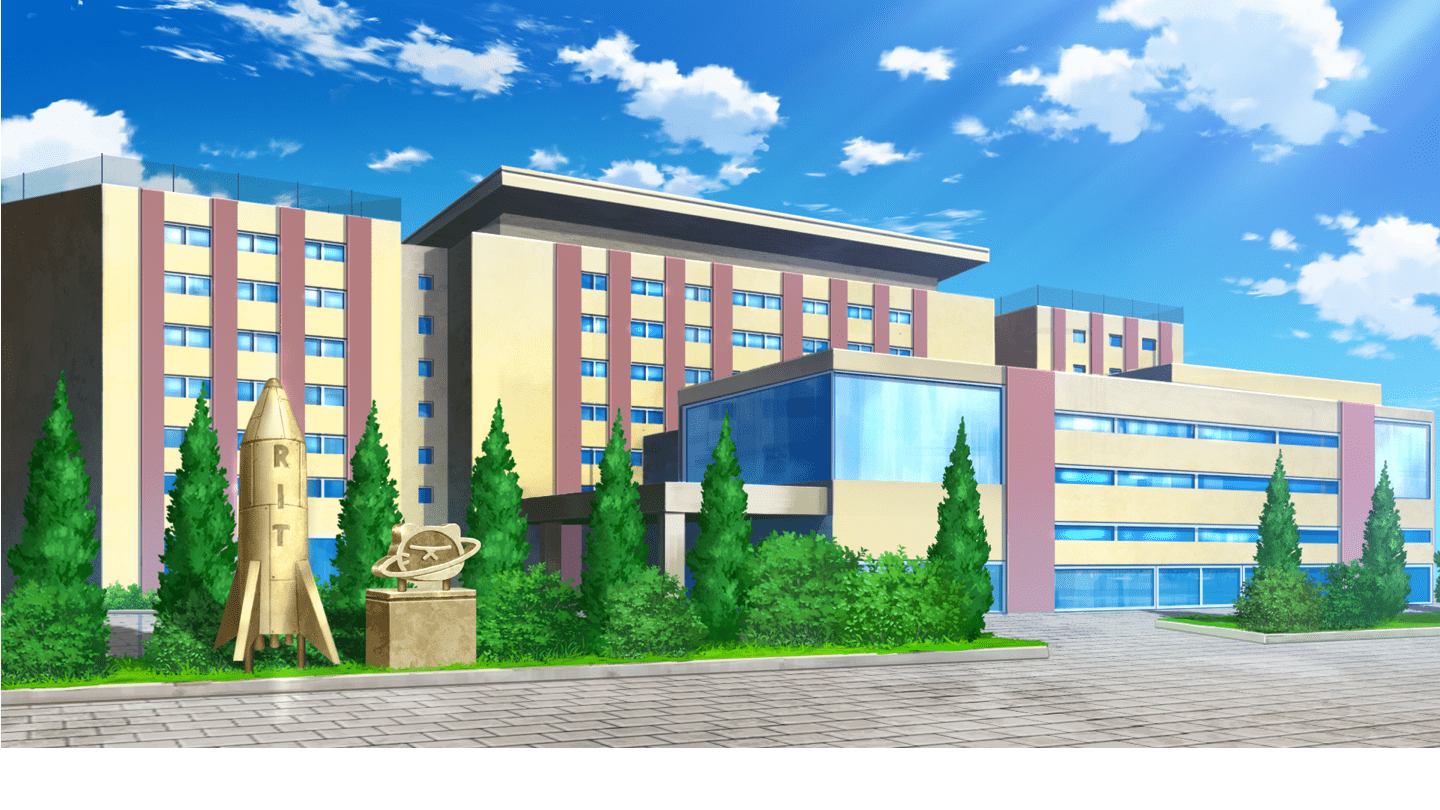
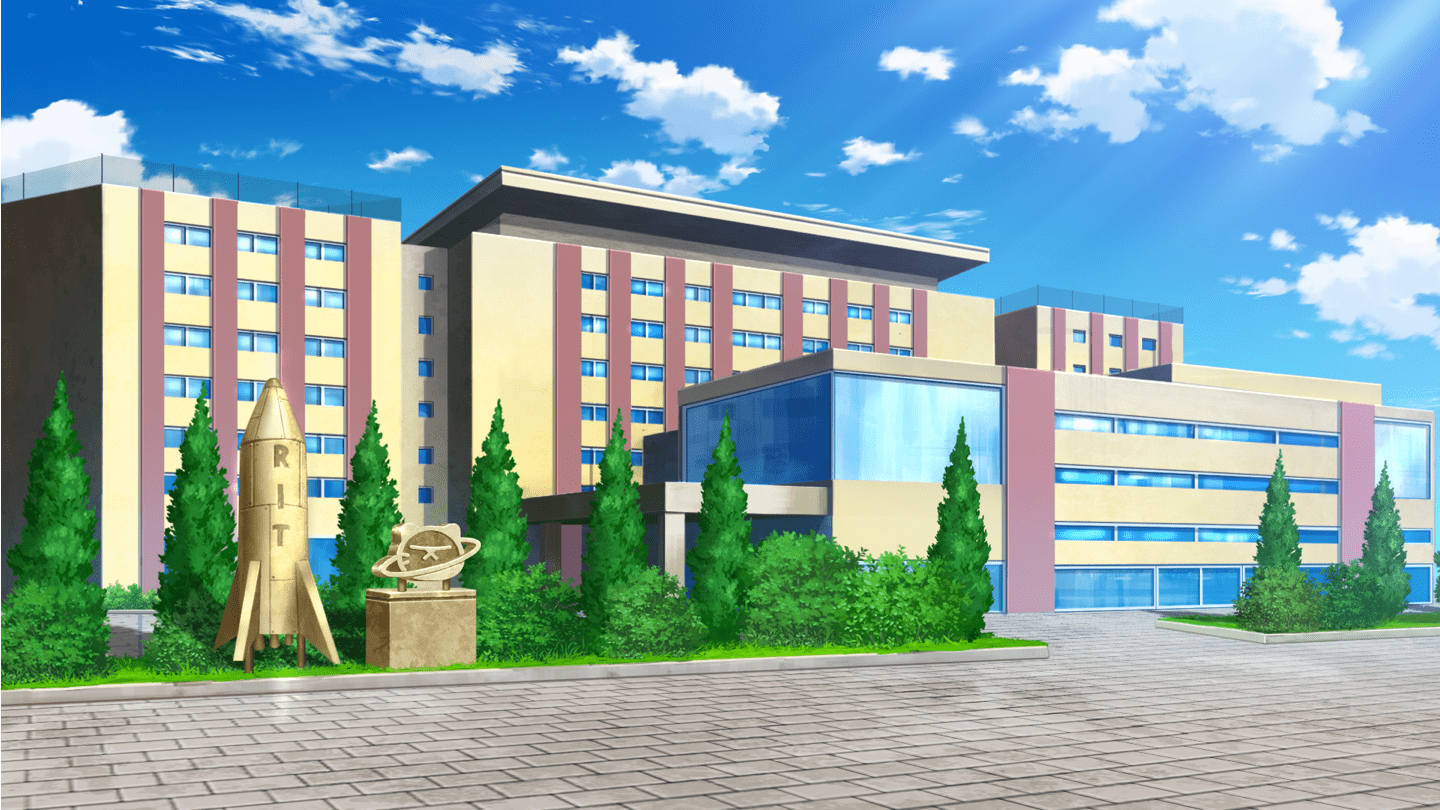
Update images

diff --git a/index.html b/index.html
@@ -92,6 +92,8 @@
 
       .university {
           position: absolute;
+          height: 100%;
+          width: 100%;
           object-fit: cover;
           z-index: -1;
       }
@@ -154,14 +156,17 @@
   <img src="img/logo-rit.png"
        srcset="img/logo-rit@2x.png 2x,
              img/logo-rit@3x.png 3x"
-       class="logo-rit">
+       class="logo-rit" alt="RIT logo">
+
   <span class="introduction__cj">
     RITは 日韓共同のグローバルプロジェクト
     <br class="newline">
     KawaiiGirlNFT×DSCです<span class="fw-n">。</span>
   </span>
+
   <span class="introduction__kr">한일공동프로젝트인 RIT KawaiiGirlNFT×DSC입니다</span>
 </header>
+
 <main>
   <img src="img/text-comingsoon.png"
        srcset="img/text-comingsoon@2x.png 2x,
@@ -173,10 +178,6 @@
              img/section-1@3x.png 3x"
        class="university" alt="University image">
 
-<!--  <img src="img/character-main.png"-->
-<!--       srcset="img/character-main@2x.png 2x,-->
-<!--             img/character-main@3x.png 3x"-->
-<!--       class="character_main" alt="Character image">-->
   <img src="img/RIRA.gif" class="character_main" alt="Character image">
 </main>
 </body>
